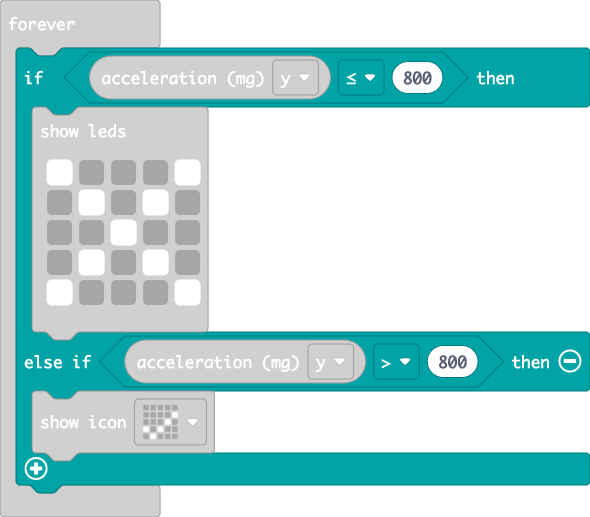
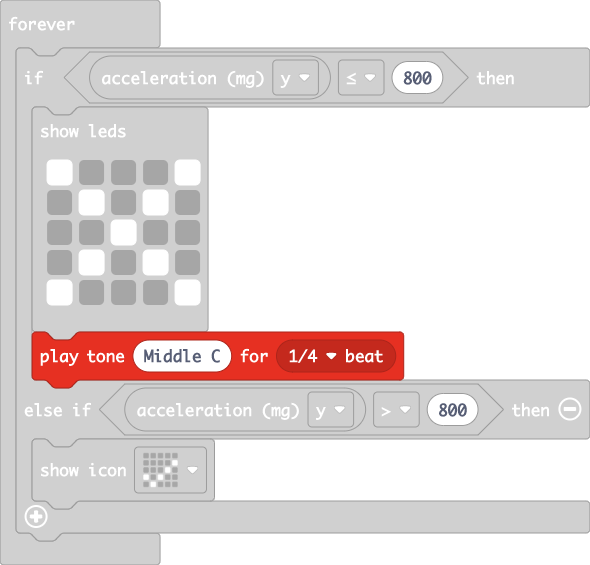
Update main.blocks, main.ts

diff --git a/main.ts b/main.ts
@@ -7,6 +7,7 @@ basic.forever(function () {
             . # . # .
             # . . . #
             `)
+        music.playTone(262, music.beat(BeatFraction.Quarter))
     } else if (input.acceleration(Dimension.Y) > 800) {
         basic.showIcon(IconNames.Yes)
     }
